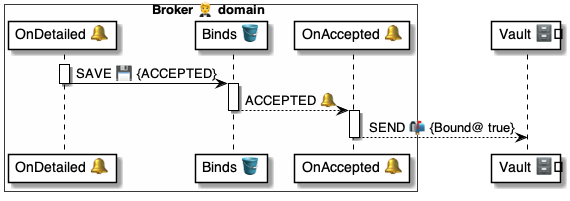
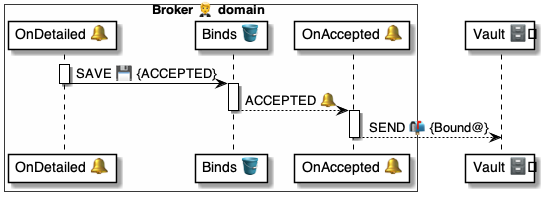
.

diff --git a/4 ⚙ Solution/20 🧑🦰 UI/Brokers 🤵/🤵🪣 Broker tables/Binds 🔗 table/🪣🔔 7 Deleted/🤵 OnBindDeleted 📃 handler.md b/4 ⚙ Solution/20 🧑🦰 UI/Brokers 🤵/🤵🪣 Broker tables/Binds 🔗 table/🪣🔔 7 Deleted/🤵 OnBindDeleted 📃 handler.md
@@ -1,0 +1,35 @@
+# 🤵 OnBindRemoved 📃 handler
+
+> Purpose
+
+* [Script 📃](<../../../../../35 💬 Chats/Scripts 📃/Script 📃.md>) that informs a [Vault 🗄 domain](<../../../../../41 🎭 Domain Roles/Vaults 🗄/🗄🎭 Vault role.md>) that a [Bind 🔗](<../../../../../30 🧩 Data/Binds 🔗/🔗 Bind.md>) was removed.
+  
+## Diagram
+
+![alt text](<🤵 OnBindDeleted ⚙ uml.png>)
+
+## Script
+
+```yaml
+📃 OnBindRemoved:
+
+# Assert the inputs
+- ASSERT|$Item:
+    AllOf: Vault, ID
+    Texts: Vault
+    UUIDs: ID
+    
+# Inform the Vault
+- SEND:
+    Header:
+        To: $Item.Vault
+        Subject: Unbound@Vault
+    Body:
+        Bind: $Item.ID
+```
+
+Uses||
+|-|-
+| [Commands ⌘](<../../../../../35 💬 Chats/Scripts 📃/Command ⌘.md>) | [`ASSERT`](<../../../../../37 Scripts 📃/📃 Commands ⌘/⌘ for holders 🧠/ASSERT 🚦/🚦 ASSERT ⌘ cmd.md>) [`SEND`](<../../../../../37 Scripts 📃/📃 Commands ⌘/⌘ for messages 📨/SEND 📬/📬 SEND ⌘ cmd.md>)
+| [Messages 📨](<../../../../../30 🧩 Data/Messages 📨/📨 Message/📨 Message.md>) | [`Unbound@Vault` 🅰 method](<../../../../../41 🎭 Domain Roles/Vaults 🗄/🗄🅰 Vault methods/Unbound 🤵🐌🗄/🗄 Unbound 🐌 msg.md>) 
+|

diff --git a/4 ⚙ Solution/20 🧑🦰 UI/Brokers 🤵/🤵🪣 Broker tables/Binds 🔗 table/🪣🔔 6 Removed/🤵 OnBindRemoved 📃 handler.md b/4 ⚙ Solution/20 🧑🦰 UI/Brokers 🤵/🤵🪣 Broker tables/Binds 🔗 table/🪣🔔 6 Removed/🤵 OnBindRemoved 📃 handler.md
@@ -12,24 +12,15 @@
 
 ```yaml
 📃 OnBindRemoved:
-
-# Assert the inputs
-- ASSERT|$Item:
-    AllOf: Vault, ID
-    Texts: Vault
-    UUIDs: ID
     
-# Inform the Vault
-- SEND:
-    Header:
-        To: $Item.Vault
-        Subject: Unbound@Vault
-    Body:
-        Bind: $Item.ID
+# Schedule a random deletion time for the Bind
+#  to block Vaults from guessing why users unbound
+- SAVE|$Bind:
+    .Delete: .Now.Add({.Random} hours)  
 ```
 
 Uses||
 |-|-
 | [Commands ⌘](<../../../../../35 💬 Chats/Scripts 📃/Command ⌘.md>) | [`ASSERT`](<../../../../../37 Scripts 📃/📃 Commands ⌘/⌘ for holders 🧠/ASSERT 🚦/🚦 ASSERT ⌘ cmd.md>) [`SEND`](<../../../../../37 Scripts 📃/📃 Commands ⌘/⌘ for messages 📨/SEND 📬/📬 SEND ⌘ cmd.md>)
-| [Messages 📨](<../../../../../30 🧩 Data/Messages 📨/📨 Message/📨 Message.md>) | [`Unbound@Vault` 🅰 method](<../../../../../41 🎭 Domain Roles/Vaults 🗄/🗄🅰 Vault methods/Unbound 🤵🐌🗄/🗄 Unbound 🐌 msg.md>) 
+| [{Functions} 🐍](<../../../../../35 💬 Chats/Scripts 📃/Function 🐍.md>) | {{.Now}} {{.Add}} {{.Random}} 
 |

diff --git a/4 ⚙ Solution/20 🧑🦰 UI/Brokers 🤵/🤵🪣 Broker tables/Binds 🔗 table/🪣🔔 4 Rejected/🤵 OnBindRejected 📃 handler.md b/4 ⚙ Solution/20 🧑🦰 UI/Brokers 🤵/🤵🪣 Broker tables/Binds 🔗 table/🪣🔔 4 Rejected/🤵 OnBindRejected 📃 handler.md
@@ -17,15 +17,13 @@
 - SEND:
     Header:
         To: $Bind.Vault
-        Subject: Bound@Vault
+        Subject: Rebound@Vault
     Body:
         Hook: $Bind.Hook
-        Bind: $Bind.ID
-        Accepted: False
 ```
 
 Uses||
 |-|-
 | [Commands ⌘](<../../../../../35 💬 Chats/Scripts 📃/Command ⌘.md>) |  [`SEND`](<../../../../../37 Scripts 📃/📃 Commands ⌘/⌘ for messages 📨/SEND 📬/📬 SEND ⌘ cmd.md>)
-| [Messages 📨](<../../../../../30 🧩 Data/Messages 📨/📨 Message/📨 Message.md>) | [`Bound@Vault` 🅰 method](<../../../../../41 🎭 Domain Roles/Vaults 🗄/🗄🅰 Vault methods/Bound 🤵🐌🗄/🗄 Bound 🐌 msg.md>)
+| [Messages 📨](<../../../../../30 🧩 Data/Messages 📨/📨 Message/📨 Message.md>) | [`Rebound@Vault` 🅰 method](<../../../../../41 🎭 Domain Roles/Vaults 🗄/🗄🅰 Vault methods/Rebound 🤵🐌🗄/🗄 Rebound 🐌 msg.md>)
 |

diff --git a/4 ⚙ Solution/20 🧑🦰 UI/Brokers 🤵/🤵🪣 Broker tables/Binds 🔗 table/🪣🔔 3 Accepted/🤵 OnBindAccepted 📃 handler.md b/4 ⚙ Solution/20 🧑🦰 UI/Brokers 🤵/🤵🪣 Broker tables/Binds 🔗 table/🪣🔔 3 Accepted/🤵 OnBindAccepted 📃 handler.md
@@ -21,7 +21,6 @@
     Body:
         Hook: $Bind.Hook
         Bind: $Bind.ID
-        Accepted: True
 ```
 
 Uses||
